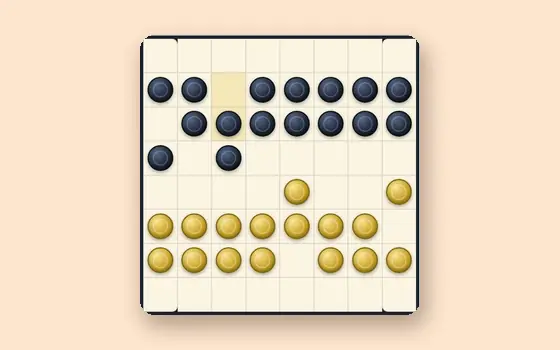
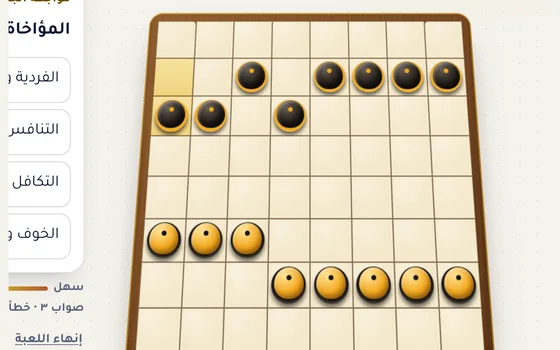
Preview: dama wooden tilted board, move/capture/crown animations, mobile flow, skip rules; new dama and groups thumbnails
Claude-Session: https://claude.ai/code/session_01PZvgEdURcKWGuzNmkCcNZ9

diff --git a/games/dama.html b/games/dama.html
@@ -396,6 +396,42 @@ html[data-theme="dark"] .backrow a{ color:var(--jm-ink) !important; }
 .ck{ text-shadow:0 0 3px rgba(0,0,0,.55); font-weight:900; }
 
 </style>
+<style id="jm-dama3d">
+/* ===== الدامة: لوح خشبي بإحساس ثلاثي الأبعاد + حركة ناعمة ===== */
+.board-wrap{ perspective:1100px; perspective-origin:50% 0%; }
+.board{ --wood1:#7A4A22; --wood2:#5C3416; --wood3:#94602F;
+  padding:14px !important; border-radius:22px !important;
+  background:
+    repeating-linear-gradient(92deg, rgba(255,255,255,.035) 0 2px, transparent 2px 9px),
+    repeating-linear-gradient(88deg, rgba(0,0,0,.06) 0 1px, transparent 1px 13px),
+    linear-gradient(135deg,var(--wood3),var(--wood1) 45%,var(--wood2)) !important;
+  box-shadow: inset 0 0 0 2px rgba(245,183,46,.55), inset 0 2px 0 rgba(255,255,255,.25), inset 0 -6px 12px rgba(0,0,0,.35), 0 30px 50px -28px rgba(30,14,2,.75), 0 8px 0 -2px #3E220C !important;
+  transform-style:preserve-3d; transition:transform .5s ease; }
+.board .sq, html[data-theme="dark"] .board .sq{ overflow:visible; background:
+    radial-gradient(120% 120% at 30% 20%, rgba(255,255,255,.35), transparent 55%),
+    var(--cloth,#F5E9CC) !important; border-color:rgba(60,34,12,.55) !important; }
+.board .sq.last{ background:linear-gradient(#F7E2A0,#F1D47E) !important; }
+.board .sq.sel{ background:linear-gradient(#D6F0E5,#BFE6D5) !important; }
+.sq:first-child{ border-top-right-radius:6px !important; } .sq:nth-child(8){ border-top-left-radius:6px !important; } .sq:nth-child(57){ border-bottom-right-radius:6px !important; } .sq:last-child{ border-bottom-left-radius:6px !important; }
+.pc{ filter:drop-shadow(0 5px 3px rgba(0,0,0,.42)) drop-shadow(0 1px 0 rgba(0,0,0,.4)) !important; }
+.sq.sel .pc{ transform:translateY(-6px) scale(1.08); filter:drop-shadow(0 12px 6px rgba(0,0,0,.35)) !important; }
+.sq.moving{ z-index:5; }
+.pc.ghost{ position:absolute; inset:8%; width:auto !important; height:auto !important; z-index:6; pointer-events:none; }
+.pc.crowned svg{ animation:crownPop .7s cubic-bezier(.2,1.6,.4,1) both; }
+@keyframes crownPop{ 0%{ transform:translateY(-120%) scale(.2) rotate(-25deg); opacity:0; } 60%{ opacity:1; } 100%{ transform:none; opacity:1; } }
+@media (min-width:900px) and (hover:hover){ html .board-wrap .board{ transform:rotateX(20deg) !important; transform-origin:50% 100% !important; } .board-wrap{ padding-top:6px; } }
+/* الجوال: ترويسة أخف */
+@media (max-width:560px){
+  .app > .top{ gap:8px !important; row-gap:8px !important; }
+  .app > .top .help{ padding:6px 9px !important; min-height:36px !important; font-size:.76rem !important; }
+  .app > .top .help:first-of-type{ margin-inline-start:0 !important; }
+  .app > .top{ justify-content:flex-start; }
+  .app > .top > .mark{ width:40px; height:40px; }
+  .status{ margin-bottom:8px; } .sc{ padding:5px 11px 5px 10px; font-size:.84rem; }
+}
+@media (max-width:380px){ .app > .top .help{ padding:5px 7px !important; font-size:.72rem !important; } .app > .top{ gap:6px !important; } }
+@media (prefers-reduced-motion:reduce){ .board{ transition:none; } .pc.crowned svg{ animation:none; } }
+</style>
 </head>
 <body>
 <div class="gp-aurora" aria-hidden="true"><i></i><i></i><i></i><i></i></div>
@@ -709,8 +745,8 @@ function drawRule(){
   $('ruleDots').innerHTML=RULES.map(function(_,i){ return '<i class="'+(i===ri?'on':'')+'"></i>'; }).join('');
   $('rPrev').style.visibility=ri?'visible':'hidden';
   $('rNext').textContent= ri===RULES.length-1 ? (rulesBack==='vPlay'?'العودة إلى اللعبة':'فهمت، لنبدأ ←') : 'التالي ←';
-  $('rSkipWrap').classList.toggle('hidden', !(seenGet()||rulesBack==='vPlay'));
-  $('rSkip').textContent= rulesBack==='vPlay' ? 'العودة إلى اللعبة' : 'تخطّي القوانين (قرأتها سابقًا)';
+  $('rSkipWrap').classList.remove('hidden');
+  $('rSkip').textContent= rulesBack==='vPlay' ? 'العودة إلى اللعبة' : (seenGet()?'تخطّي القوانين (قرأتها سابقًا)':'تخطّي القوانين ←');
 }
 function openRules(back){ rulesBack=back; ri=0; drawRule(); show('vRules'); }
 function rulesNext(){ snd('tick'); if(ri<RULES.length-1){ ri++; drawRule(); return; } rulesDone(); }
@@ -991,6 +1027,42 @@ function quitGame(){
   var b=document.getElementById('btnVoice');
   function paint(){ if(!b){ return; } b.textContent=on?'🗣 التشجيع':'🔇 التشجيع'; b.setAttribute('aria-pressed',on?'true':'false'); b.title=on?'التشجيع الصوتي: مفعّل (اضغط للإيقاف)':'التشجيع الصوتي: متوقف (اضغط للتشغيل)'; }
   if(b){ paint(); b.addEventListener('click',function(){ on=!on; try{ window.localStorage.setItem(KEY,on?'1':'0'); }catch(e){} paint(); if(on){ window.voiceSay(true,true); } else { window.voiceStop(); } }); }
+})();
+</script>
+<script id="jm-dama-anim">
+(function(){
+  if(typeof render!=='function'){ return; }
+  var orig=render, prev=null, prevG=null, prevState=null, reduce=window.matchMedia&&matchMedia('(prefers-reduced-motion: reduce)').matches;
+  function sgn(v){ return v>0?1:(v<0?-1:0); }
+  window.render=function(){
+    var shown=(G&&(G.view||G.board))||null, before=(prevG===G&&prev)?prev:null;
+    orig();
+    if(!G||!shown){ return; }
+    var now=shown.slice(); prev=now; prevG=G;
+    var st=G.state; if(st!==prevState){ if(st==='move'&&window.innerWidth<900){ setTimeout(function(){ try{ document.querySelector('.board-wrap').scrollIntoView({behavior:'smooth',block:'center'}); }catch(e){} },420); } prevState=st; }
+    if(!before||reduce){ return; }
+    var tos=[], froms=[], caps=[];
+    for(var i=0;i<64;i++){ if(before[i]&&!now[i]){ froms.push(i); } else if(!before[i]&&now[i]){ tos.push(i); } }
+    if(!tos.length||tos.length>2){ return; }
+    tos.forEach(function(t){
+      var sd=sgn(now[t]), f=-1;
+      froms.forEach(function(x){ if(f<0&&sgn(before[x])===sd){ f=x; } });
+      if(f<0){ return; }
+      froms.forEach(function(x){ if(sgn(before[x])===-sd){ caps.push(x); } });
+      var sq=G.sqs[t], pc=sq&&sq.querySelector('.pc'); if(!pc||!pc.animate){ return; }
+      var w=sq.offsetWidth, h=sq.offsetHeight, dx=((f&7)-(t&7))*w, dy=((f>>3)-(t>>3))*h, lift=Math.min(46,18+Math.hypot(dx,dy)*.12);
+      sq.classList.add('moving');
+      var a=pc.animate([{transform:'translate('+dx+'px,'+dy+'px) scale(1)'},{transform:'translate('+dx/2+'px,'+(dy/2-lift)+'px) scale(1.16)',offset:.5},{transform:'translate(0,0) scale(1)'}],{duration:Math.min(620,300+Math.hypot(dx,dy)*.7),easing:'cubic-bezier(.3,.7,.3,1)'});
+      a.onfinish=function(){ sq.classList.remove('moving'); };
+      if(Math.abs(now[t])===2&&Math.abs(before[f])===1){ pc.classList.add('crowned'); }
+    });
+    caps.forEach(function(c,k){
+      var sq=G.sqs[c]; if(!sq){ return; }
+      var g=document.createElement('span'); g.className='pc ghost '+(before[c]>0?'h':'b')+(Math.abs(before[c])===2?' k':''); sq.appendChild(g);
+      var an=g.animate([{transform:'translateY(0) scale(1) rotate(0)',opacity:1},{transform:'translateY(-26px) scale(1.25) rotate(25deg)',opacity:.9,offset:.4},{transform:'translateY(-60px) scale(.2) rotate(140deg)',opacity:0}],{duration:620,delay:220+k*90,easing:'ease-in',fill:'both'});
+      an.onfinish=function(){ if(g.parentNode){ g.parentNode.removeChild(g); } };
+    });
+  };
 })();
 </script>
 </body>
